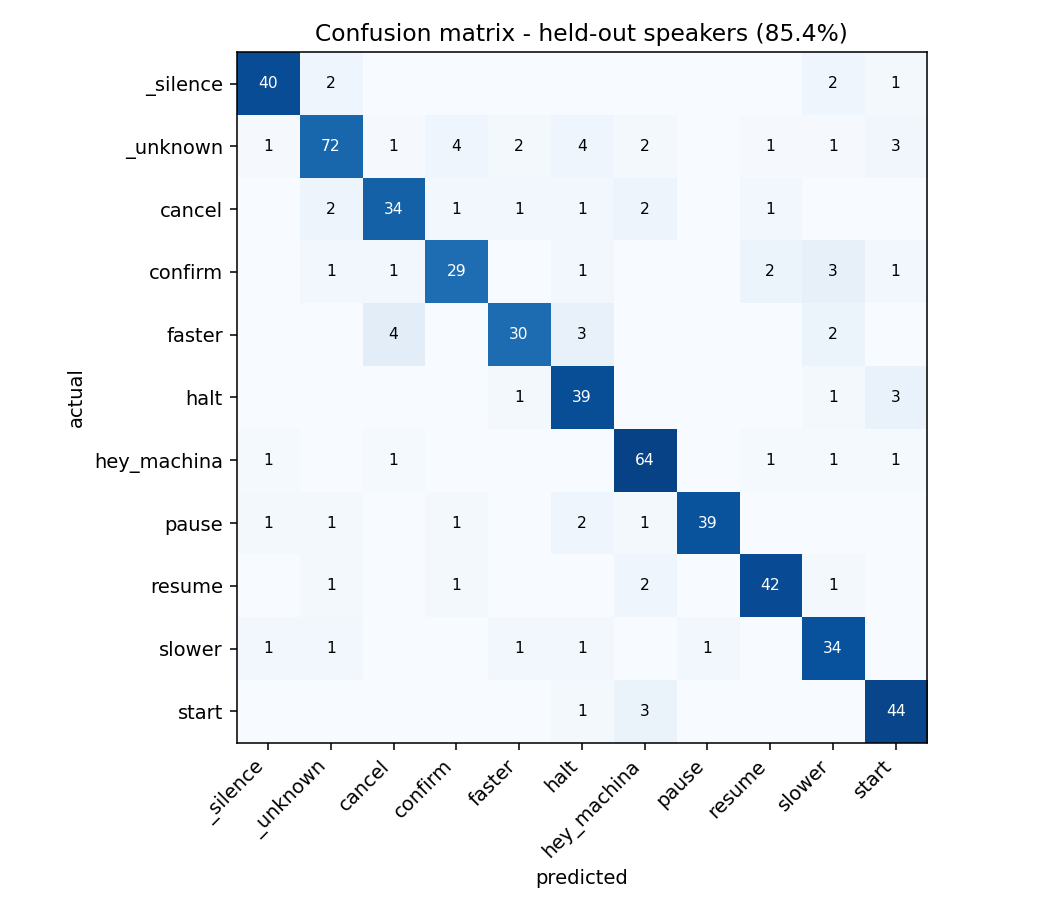
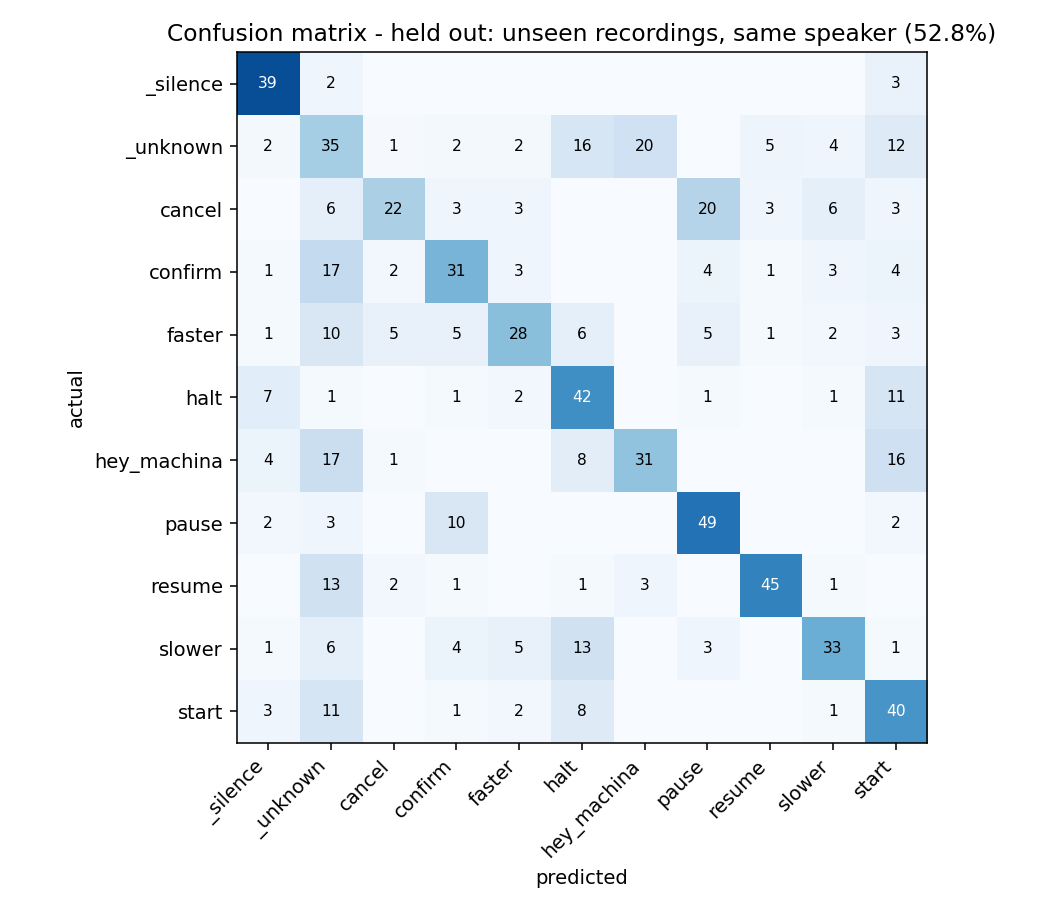
results: honest baseline 52.8% on unseen recordings (one speaker)
Earlier 79-85% figures were inflated by augmented copies of the same
recording appearing in train and test. With whole recordings held out,
accuracy is 52.8%: the model is data-limited at ~20 real recordings per
word. Next: more reps and more speakers.

diff --git a/tools/train_model.py b/tools/train_model.py
@@ -1,17 +1,20 @@
 """
-train_model.py — train the keyword-spotting model on the collected dataset.
+train_model.py - train the keyword-spotting model on the collected dataset.
 
 Run:
     python tools/train_model.py
-    python tools/train_model.py --epochs 60 --test-speakers 2
+    python tools/train_model.py --test-speakers 1
+    python tools/train_model.py --held nalin          # choose the held-out speaker
 
 Reads  data/augmented/<label>/*.wav   (falls back to data/raw if absent)
 Writes models/kws_model.keras, models/labels.json, models/report.json,
        models/confusion_matrix.png, models/training_curve.png
 
-The split is SPEAKER-DISJOINT: whole speakers are held out for testing, so
-reported accuracy reflects unseen voices. A random split would let the model
-memorise a speaker and report a number that collapses on demo day.
+Splits
+  test        whole speakers held out (never seen in training). The silence class
+              has no speaker, so 15% of silence clips are held out at random.
+  validation  carved from the training speakers, grouped by source recording so an
+              augmented copy of a clip can never sit in both train and validation.
 """
 
 import argparse
@@ -19,6 +22,7 @@ import glob
 import json
 import os
 import random
+import re
 import sys
 
 import numpy as np
@@ -29,11 +33,18 @@ from features import load_mfcc, INPUT_SHAPE  # noqa: E402
 DATA_AUG = os.path.join('data', 'augmented')
 DATA_RAW = os.path.join('data', 'raw')
 OUT = 'models'
+SILENCE_SPEAKER = 'sil'          # augment.py names generated silence clips sil_0001.wav
 
 
 def speaker_of(path):
-    """Filenames are <speaker>_<nnn>[_augN].wav -> speaker is the first field."""
+    """<speaker>_<nnn>[_augN|_clean].wav -> speaker is the first field."""
     return os.path.basename(path).split('_')[0]
+
+
+def base_id(path):
+    """Source recording id: strips the _augN / _clean suffix added by augment.py."""
+    stem = os.path.splitext(os.path.basename(path))[0]
+    return re.sub(r'_(aug\d+|clean)$', '', stem)
 
 
 def collect(root):
@@ -45,7 +56,49 @@ def collect(root):
             files.append(f)
             ys.append(li)
             spk.append(speaker_of(f))
-    return labels, files, np.array(ys), np.array(spk)
+    return labels, np.array(files), np.array(ys), np.array(spk)
+
+
+def make_split(spk, files, test_speakers=1, forced=None, seed=42):
+    """Return (test_mask, held_out_speakers, mode).
+
+    mode is 'speaker-disjoint' (>=2 real speakers) or 'recording-disjoint' (one speaker:
+    whole source recordings are held out, so no augmented copy leaks into training)."""
+    rng = np.random.RandomState(seed)
+    spk = np.asarray(spk)
+    real = sorted(set(str(s) for s in spk) - {SILENCE_SPEAKER})
+    sil_idx = np.where(spk == SILENCE_SPEAKER)[0]
+
+    held = None
+    if forced:
+        missing = [s for s in forced if s not in real]
+        if missing:
+            sys.exit(f'--held {missing} not found. Speakers in the dataset: {real}')
+        held = set(forced)
+    elif len(real) > test_speakers:
+        held = set(str(s) for s in rng.choice(real, test_speakers, replace=False))
+
+    if held is not None:
+        test = np.array([str(s) in held for s in spk])
+        if len(sil_idx):
+            n = max(1, int(0.15 * len(sil_idx)))
+            test[rng.choice(sil_idx, n, replace=False)] = True
+        return test, sorted(held), 'speaker-disjoint'
+
+    groups = np.array([base_id(f) for f in files])
+    uniq = np.unique(groups)
+    held_groups = rng.choice(uniq, max(1, len(uniq) // 5), replace=False)
+    return np.isin(groups, held_groups), [], 'recording-disjoint'
+
+
+def make_val_split(train_files, seed=42, frac=0.15):
+    """Validation mask over the training files, grouped by source recording."""
+    rng = np.random.RandomState(seed)
+    groups = np.array([base_id(f) for f in train_files])
+    uniq = np.unique(groups)
+    n = max(1, int(frac * len(uniq)))
+    val_groups = rng.choice(uniq, n, replace=False)
+    return np.isin(groups, val_groups)
 
 
 def build_model(n_classes):
@@ -76,6 +129,7 @@ def main():
     ap.add_argument('--epochs', type=int, default=50)
     ap.add_argument('--batch', type=int, default=32)
     ap.add_argument('--test-speakers', type=int, default=1)
+    ap.add_argument('--held', nargs='+', help='speaker name(s) to hold out, e.g. --held nalin')
     ap.add_argument('--seed', type=int, default=42)
     args = ap.parse_args()
     random.seed(args.seed)
@@ -87,36 +141,35 @@ def main():
     print(f'dataset: {root}')
 
     labels, files, y, spk = collect(root)
-    if not files:
+    if not len(files):
         sys.exit('No wav files found.')
-    speakers = sorted(set(spk))
-    print(f'{len(files)} clips | {len(labels)} classes | {len(speakers)} speakers: {speakers}')
+    real_speakers = sorted(set(str(s) for s in spk) - {SILENCE_SPEAKER})
+    print(f'{len(files)} clips | {len(labels)} classes | real speakers: {real_speakers}')
     for li, lab in enumerate(labels):
         print(f'   {lab:<14} {int((y == li).sum())}')
 
-    # ---------------- speaker-disjoint split
-    if len(speakers) > args.test_speakers + 1:
-        held = set(random.sample(speakers, args.test_speakers))
-        print(f'\nheld-out test speaker(s): {sorted(held)}')
-        test_mask = np.array([s in held for s in spk])
+    # ---------------- split
+    test_mask, held, mode = make_split(spk, files, args.test_speakers, args.held, args.seed)
+    if mode == 'speaker-disjoint':
+        print(f'\nSPLIT: speaker-disjoint. Held-out test speaker(s): {held}')
     else:
-        print('\nWARNING: too few speakers for a disjoint split - falling back to a '
-              'random 20% split. Accuracy will be OPTIMISTIC. Record more speakers.')
-        test_mask = np.zeros(len(files), bool)
-        test_mask[np.random.choice(len(files), max(1, len(files) // 5), replace=False)] = True
+        print('\nSPLIT: recording-disjoint. Only one real speaker, so the test clips are unseen '
+              'RECORDINGS of the SAME voice. This is NOT accuracy on a new speaker.')
 
     # ---------------- features
     print('\nextracting MFCC features...')
     X = np.stack([load_mfcc(f) for f in files])[..., None]
     print(f'feature tensor: {X.shape}')
 
+    train_files = files[~test_mask]
     Xtr, ytr = X[~test_mask], y[~test_mask]
     Xte, yte = X[test_mask], y[test_mask]
-    # validation carved from training speakers only
-    idx = np.random.permutation(len(Xtr))
-    nval = max(1, int(0.15 * len(Xtr)))
-    val_i, tr_i = idx[:nval], idx[nval:]
-    print(f'train {len(tr_i)} | val {len(val_i)} | test {len(Xte)}')
+    val_mask = make_val_split(train_files, args.seed)
+    Xval, yval = Xtr[val_mask], ytr[val_mask]
+    Xfit, yfit = Xtr[~val_mask], ytr[~val_mask]
+    print(f'train {len(Xfit)} | val {len(Xval)} | test {len(Xte)}')
+    if not len(Xte):
+        sys.exit('Test set is empty.')
 
     # ---------------- train
     from tensorflow import keras
@@ -131,30 +184,35 @@ def main():
                                       restore_best_weights=True),
         keras.callbacks.ReduceLROnPlateau(monitor='val_loss', factor=0.5, patience=5, min_lr=1e-5),
     ]
-    hist = model.fit(Xtr[tr_i], ytr[tr_i], validation_data=(Xtr[val_i], ytr[val_i]),
+    hist = model.fit(Xfit, yfit, validation_data=(Xval, yval),
                      epochs=args.epochs, batch_size=args.batch, callbacks=cbs, verbose=2)
 
     # ---------------- evaluate
     probs = model.predict(Xte, verbose=0)
     pred = probs.argmax(1)
     acc = float((pred == yte).mean())
-    print(f'\nHELD-OUT TEST ACCURACY: {acc*100:.2f}%')
+    tag = 'HELD-OUT-SPEAKER' if mode == 'speaker-disjoint' else 'UNSEEN-RECORDINGS, SAME SPEAKER'
+    print(f'\n{tag} TEST ACCURACY: {acc * 100:.2f}%')
 
     cm = np.zeros((len(labels), len(labels)), int)
     for t, p in zip(yte, pred):
         cm[t, p] += 1
 
     per_class = {}
+    print('\nper-class recall')
     for i, lab in enumerate(labels):
         tot = int(cm[i].sum())
-        per_class[lab] = {'support': tot,
-                          'recall': round(float(cm[i, i] / tot), 4) if tot else None}
+        rec = round(float(cm[i, i] / tot), 4) if tot else None
+        per_class[lab] = {'support': tot, 'recall': rec}
+        print(f'   {lab:<14} {tot:>4} clips   recall {rec if rec is None else f"{rec * 100:.0f}%"}')
 
     model.save(os.path.join(OUT, 'kws_model.keras'))
     json.dump(labels, open(os.path.join(OUT, 'labels.json'), 'w'), indent=2)
-    json.dump({'test_accuracy': acc, 'n_clips': len(files), 'speakers': speakers,
-               'per_class': per_class, 'confusion_matrix': cm.tolist(),
-               'labels': labels},
+    json.dump({'test_accuracy': acc, 'split_mode': mode, 'held_out': held,
+               'train_speakers': [s for s in real_speakers if s not in held],
+               'n_clips': int(len(files)), 'n_test_clips': int(len(Xte)),
+               'speakers': real_speakers, 'per_class': per_class,
+               'confusion_matrix': cm.tolist(), 'labels': labels},
               open(os.path.join(OUT, 'report.json'), 'w'), indent=2)
 
     # ---------------- plots
@@ -173,22 +231,29 @@ def main():
                 if cm[i, j]:
                     ax.text(j, i, cm[i, j], ha='center', va='center',
                             color='white' if norm[i, j] > 0.5 else 'black', fontsize=8)
-        ax.set_xlabel('predicted'); ax.set_ylabel('actual')
-        ax.set_title(f'Confusion matrix - held-out speakers ({acc*100:.1f}%)')
-        fig.tight_layout(); fig.savefig(os.path.join(OUT, 'confusion_matrix.png'), dpi=140)
+        ax.set_xlabel('predicted')
+        ax.set_ylabel('actual')
+        who = ', '.join(held) if held else 'unseen recordings, same speaker'
+        ax.set_title(f'Confusion matrix - held out: {who} ({acc * 100:.1f}%)')
+        fig.tight_layout()
+        fig.savefig(os.path.join(OUT, 'confusion_matrix.png'), dpi=140)
 
         fig, ax = plt.subplots(figsize=(7, 4))
         ax.plot(hist.history['accuracy'], label='train')
         ax.plot(hist.history['val_accuracy'], label='validation')
-        ax.set_xlabel('epoch'); ax.set_ylabel('accuracy'); ax.legend(); ax.grid(alpha=.3)
+        ax.set_xlabel('epoch')
+        ax.set_ylabel('accuracy')
+        ax.legend()
+        ax.grid(alpha=.3)
         ax.set_title('Training curve')
-        fig.tight_layout(); fig.savefig(os.path.join(OUT, 'training_curve.png'), dpi=140)
+        fig.tight_layout()
+        fig.savefig(os.path.join(OUT, 'training_curve.png'), dpi=140)
         print('saved confusion_matrix.png and training_curve.png')
     except Exception as e:
         print('plotting skipped:', e)
 
     print(f'\nmodel -> {OUT}/kws_model.keras')
-    print('next:  python demo/live_demo.py')
+    print('next:  python tools/evaluate.py   then   python demo/live_demo.py')
 
 
 if __name__ == '__main__':
